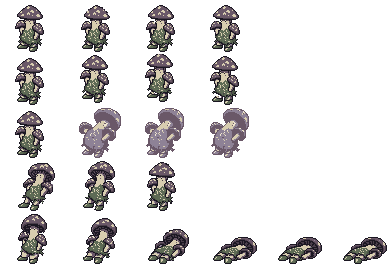
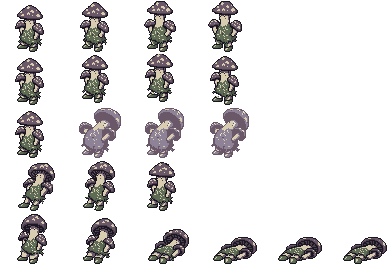
feat(art): Greycap Sporeling idle v2 from the P2 pilot (animate_character v3)
One paid job (f90a856a, 1 generation) per docs/art/P2-GREYCAP-IDLE-HANDOFF-2026-11-11.md.
Frames snapped to the 8 locked hex and cropped to 64x52 with the feet on the bottom
row; frames 2-3 had the cap on row 0, so that row was cleared and the Ink outline moved
down one row for the bible 8.3 margin. Frame 0 is the unchanged anchor; 4 x 250 ms loop.
User accepted the cap sway over the brief's 1 px breathe ("Cài thay idle cũ").

Sheet re-exported; sheet_export_test / sprite_sheet_test / roster_sprite_test FAILS=0.
Evidence: production/qa/evidence/greycap-idle-v2/strip_x2.png via tools/qa/greycap_idle_footage.gd.
Asset: ASSET-022 (unit.greycap_sporeling)

Changed region(s): [[0.5244, 0.0, 0.6478, 0.1818], [0.3702, 0.0, 0.4627, 0.1818], [0.1851, 0.0, 0.2776, 0.1818]]

diff --git a/design/assets/candidates/greycap_sporeling/idle-v1-2026-11-11/QA.md b/design/assets/candidates/greycap_sporeling/idle-v1-2026-11-11/QA.md
@@ -1,0 +1,44 @@
+# QA — idle v1 (2026-11-11)
+
+## Request
+- Asset: `unit.greycap_sporeling` · clip `idle`
+- Why: P2 pilot: 4-frame breathing idle per docs/art/P2-GREYCAP-IDLE-HANDOFF-2026-11-11.md
+
+## Call
+- Provider / tool: pixellab / animate_character
+- Ids: job f90a856a-140a-446e-99bd-4cfcfe0c0925 · character 5705da35-be85-49c2-9704-555fbe8c755e · effect —
+- Seed: — · Cost: 1 generation
+- Params: `{"mode": "v3", "directions": ["south-west"], "frame_count": 4, "keep_first_frame": true, "canvas": "64x76", "animation_group_id": "ac4c6b8f-0ce7-458b-a921-75c214250250", "server_animation_name": "idle_v2_2026-11-11"}`
+- Prompt: Idle breathing loop, four frames numbered 0, 1, 2 and 3, facing south-west. Frame 0 stays the pinned start pose. On frame 1 the big cap rises one pixel. On frame 2 the big cap stays one pixel higher and the two side caps rise one pixel. On frame 3 all three caps return to the frame 0 pose. The root base and both feet stay on the same pixels. Cap shapes, body width, and the one-pixel dark outline stay unchanged. Flat colour bands only.
+- Source anchor: `art_src/units/greycap_sporeling/idle/0.png`
+
+## Measured
+frame 0 = anchor, feet fixed, no red; FAIL amplitude (cap +3..6 px, body +1..3 px/side, 400-620 px redrawn) and palette (54-94 off-palette px per frame)
+
+Report: `QA.md`
+
+## Verdict
+- Technical: FAIL
+- User: **accepted** (2026-11-11) — user 2026-11-11: 'Cài thay idle cũ' after viewing preview/old-vs-snap-x3.png
+
+## Snap pass (user: "Snap màu thử", 2026-11-11)
+clean/0..3.png: nearest-colour snap to the 8 locked hex, crop rows 12..63 of the 64x76 canvas to 64x52 so the feet sit on the bottom row (x 30-34, c 32). Mechanical only, nothing repainted.
+
+| Frame | px snapped | px clipped above the crop | bbox after | colours |
+|---|---|---|---|---|
+| clean/0 | 0 | 0 | 15,5,43,51 | 7 |
+| clean/1 | 94 | 0 | 15,2,43,51 | 7 |
+| clean/2 | 69 | 4 | 14,0,45,51 | 7 |
+| clean/3 | 85 | 4 | 13,0,46,51 | 7 |
+
+Palette now PASS. Amplitude unchanged (cap top reaches row 0, 4 px of the cap tip lost on frames 2-3). Sheet: preview/old-vs-snap-x3.png (row 1 current idle, row 2 snapped candidate). Not installed; user decides.
+
+## Install (2026-11-11)
+- integrate.py clip BLOCKED (registry entry is `installed`, tool takes accepted/candidate only) -> manual install on the same path:
+  clean/0..3 -> art_src/units/greycap_sporeling/idle/0..3.png and the sheet_export_test copies design/assets/candidates/greycap/clean-64x52/idle/.
+  Previous idle frames kept in design/assets/candidates/greycap/clean-64x52/idle-pre-2026-11-11/.
+- export_sheets.py refused frames 2-3 (opaque pixel on row 0, bible 8.3 wants a 1 px top margin): row 0 cleared on 7 columns and
+  the Ink outline moved to row 1 (mechanical). Sheet re-exported 389x264, clips.json idle note added, ms/loop unchanged.
+- Godot --import; sheet_export_test, sprite_sheet_test, roster_sprite_test: FAILS=0.
+- In-game: production/qa/evidence/greycap-idle-v2/ (tools/qa/greycap_idle_footage.gd, muted), strip_x2.png = 6 frames, the last three show the installed clip.
+- Not committed.
